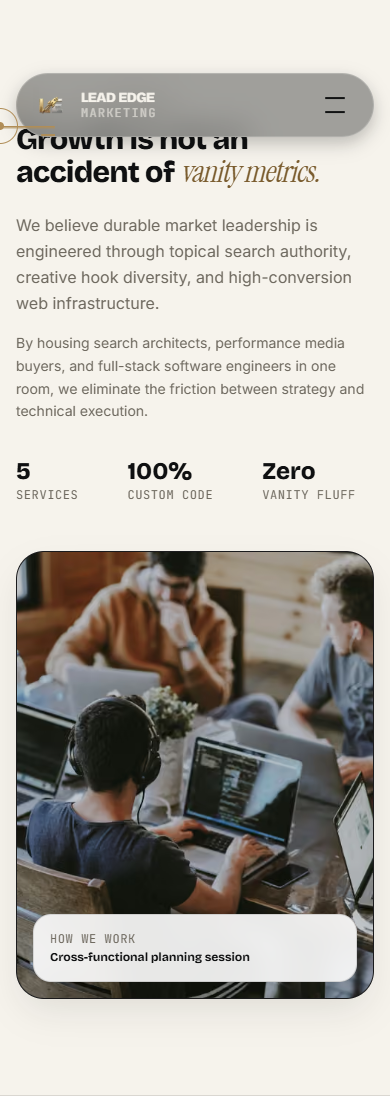
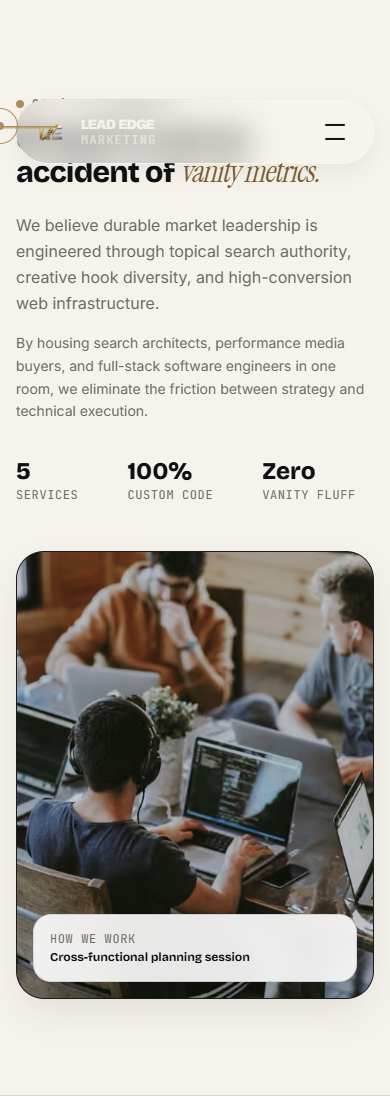
F8: social media content readiness

Changed region(s): [[0.0308, 0.062, 0.9538, 0.1551]]

diff --git a/src/data/content/social-media.ts b/src/data/content/social-media.ts
@@ -1,0 +1,125 @@
+/**
+ * SOCIAL MEDIA SERVICES CONTENT MODULE
+ * 
+ * STATUS: AWAITING REVISED CONTENT FROM CLIENT (CIR-16 / Feedback Instruction 3)
+ * 
+ * HOW TO UPDATE WHEN CLIENT SENDS CONTENT:
+ * 1. Open this file (src/data/content/social-media.ts).
+ * 2. Paste the revised headlines, descriptions, deliverables, features, and process steps into their respective fields.
+ * 3. Set `status.awaitingClientContent = false`.
+ * 4. Run `npm run check` and `npm run build` to verify formatting.
+ * 5. See `docs/HOW-TO-UPDATE-SOCIAL-MEDIA.md` for a complete step-by-step walkthrough.
+ */
+
+export interface SocialMediaContent {
+  status: {
+    awaitingClientContent: boolean;
+    sourceDocument: string;
+    note: string;
+    lastUpdated: string;
+  };
+  meta: {
+    title: string;
+    description: string;
+  };
+  hero: {
+    badge: string;
+    headline: string;
+    tagline: string;
+    shortDescription: string;
+    fullDescription: string;
+  };
+  deliverables: string[];
+  features: Array<{
+    title: string;
+    description: string;
+  }>;
+  processSteps: Array<{
+    number: string;
+    title: string;
+    description: string;
+  }>;
+}
+
+export const socialMediaContent: SocialMediaContent = {
+  status: {
+    awaitingClientContent: true,
+    sourceDocument: 'Waiting for revised document from client as noted in Website Suggestions | Lead Edge Marketing (Item 3)',
+    note: 'The current content serves as an active placeholder until the client provides the revised copy.',
+    lastUpdated: '2026-11-19',
+  },
+
+  meta: {
+    title: 'Social Media Marketing — Lead Edge Marketing',
+    description:
+      'We craft targeted social media marketing campaigns that drive engagement, build authority, and generate high-converting leads across all platforms.',
+  },
+
+  hero: {
+    badge: '03 // SOCIAL MEDIA SERVICES',
+    headline: 'CULTIVATE AN ENGAGED AUDIENCE THAT ADVOCATES FOR YOUR BRAND.',
+    tagline: 'Content built to build loyal brand communities.',
+    shortDescription:
+      'Scale your brand reach with Lead Edge Marketers. We craft targeted social media marketing campaigns that drive engagement, build authority, and generate high-converting leads across all platforms.',
+    fullDescription:
+      'Scale your brand reach with Lead Edge Marketers. We craft targeted social media marketing campaigns that drive engagement, build authority, and generate high-converting leads across all platforms.',
+  },
+
+  deliverables: [
+    'Editorial Content Calendars',
+    'High-Retention Vertical Video',
+    'Distinct Brand Voice',
+    'Proactive Community Care',
+    'Organic Demand Attribution',
+  ],
+
+  features: [
+    {
+      title: 'Editorial Brand Aesthetic',
+      description:
+        'Curating an elevated, cohesive visual feed that commands respect, reinforces credibility, and aligns with your luxury or corporate identity.',
+    },
+    {
+      title: 'Short-Form Video Mastery',
+      description:
+        'Producing trend-aware, high-retention vertical reels designed to capture organic algorithmic distribution across modern social feeds.',
+    },
+    {
+      title: 'Authentic Community Engagement',
+      description:
+        'Active community stewardship, initiating thoughtful discussions with industry peers and responding to prospect inquiries promptly.',
+    },
+    {
+      title: 'Influence & Partnership Mapping',
+      description:
+        'Identifying aligned industry creators and collaborators to organically amplify brand reach without compromising brand tone.',
+    },
+  ],
+
+  processSteps: [
+    {
+      number: '01',
+      title: 'Brand Voice & Visual Pillar Workshop',
+      description:
+        'We define your social aesthetic pillars, core messaging themes, audience personas, and content tonality.',
+    },
+    {
+      number: '02',
+      title: 'Monthly Content Batching & Pre-Approvals',
+      description:
+        'We produce copy, carousels, and video concepts one month in advance via a frictionless client preview portal.',
+    },
+    {
+      number: '03',
+      title: 'Publishing, Story Management & Community Care',
+      description:
+        'We handle timed publishing across peak engagement windows, real-time comment moderation, and story interaction.',
+    },
+    {
+      number: '04',
+      title: 'Analytics Review & Format Refinement',
+      description:
+        'We analyze saves, shares, and watch time to double down on formats generating the highest organic traction.',
+    },
+  ],
+};

diff --git a/src/data/services.ts b/src/data/services.ts
@@ -1,3 +1,5 @@
+import { socialMediaContent } from "@/data/content/social-media";
+
 export interface ServiceStep {
   number: string;
   title: string;
@@ -193,63 +195,13 @@ export const confirmedServices: ServiceItem[] = [
     number: "03",
     title: "Social Media Services",
     shortTitle: "Social Media",
-    heroHeadline: "CULTIVATE AN ENGAGED AUDIENCE THAT ADVOCATES FOR YOUR BRAND.",
-    tagline: "Content built to build loyal brand communities.",
-    shortDescription:
-      "Scale your brand reach with Lead Edge Marketers. We craft targeted social media marketing campaigns that drive engagement, build authority, and generate high-converting leads across all platforms.",
-    fullDescription:
-      "Content built to build loyal brand communities. Scale your brand reach with Lead Edge Marketers. We craft targeted social media marketing campaigns that drive engagement, build authority, and generate high-converting leads across all platforms.",
-    deliverables: [
-      "Editorial Content Calendars",
-      "High-Retention Vertical Video",
-      "Distinct Brand Voice",
-      "Proactive Community Care",
-      "Organic Demand Attribution",
-    ],
-    features: [
-      {
-        title: "Editorial Brand Aesthetic",
-        description:
-          "Curating an elevated, cohesive visual feed that commands respect, reinforces credibility, and aligns with your luxury or corporate identity.",
-      },
-      {
-        title: "Short-Form Video Mastery",
-        description:
-          "Producing trend-aware, high-retention vertical reels designed to capture organic algorithmic distribution across modern social feeds.",
-      },
-      {
-        title: "Authentic Community Engagement",
-        description:
-          "Active community stewardship, initiating thoughtful discussions with industry peers and responding to prospect inquiries promptly.",
-      },
-      {
-        title: "Influence & Partnership Mapping",
-        description:
-          "Identifying aligned industry creators and collaborators to organically amplify brand reach without compromising brand tone.",
-      },
-    ],
-    processSteps: [
-      {
-        number: "01",
-        title: "Brand Voice & Visual Pillar Workshop",
-        description: "We define your social aesthetic pillars, core messaging themes, audience personas, and content tonality.",
-      },
-      {
-        number: "02",
-        title: "Monthly Content Batching & Pre-Approvals",
-        description: "We produce copy, carousels, and video concepts one month in advance via a frictionless client preview portal.",
-      },
-      {
-        number: "03",
-        title: "Publishing, Story Management & Community Care",
-        description: "We handle timed publishing across peak engagement windows, real-time comment moderation, and story interaction.",
-      },
-      {
-        number: "04",
-        title: "Analytics Review & Format Refinement",
-        description: "We analyze saves, shares, and watch time to double down on formats generating the highest organic traction.",
-      },
-    ],
+    heroHeadline: socialMediaContent.hero.headline,
+    tagline: socialMediaContent.hero.tagline,
+    shortDescription: socialMediaContent.hero.shortDescription,
+    fullDescription: socialMediaContent.hero.fullDescription,
+    deliverables: socialMediaContent.deliverables,
+    features: socialMediaContent.features,
+    processSteps: socialMediaContent.processSteps,
     faqs: [
       {
         question: "Which social media platforms do you manage?",

diff --git a/docs/v9/PROGRESS.md b/docs/v9/PROGRESS.md
@@ -16,7 +16,7 @@ This file tracks the execution of each task (F0 to F10) according to the strict 
 | **F5: Video and Page Speed** | **COMPLETED** | `F5: video and speed optimization` | Re-encoded hero & showcase videos to strict budget (showcase-04 down to 774 KB from 1.09 MB; hero 1080p 1.04 MB <= 1.8 MB); poster-first LCP architecture with deferred idle attachment; network/data-saver consciousness (`saveData`, `2g/3g`, `prefers-reduced-motion`); `IntersectionObserver` & tab visibility pause controls; immutable caching & byte-range streaming headers in `next.config.mjs`; video transfer before load reduced from 1,646 KB to 0 KB on About page (`docs/v9/F5-evidence/speed-before-after.md`). |
 | **F6: Sitemap and Robots** | **COMPLETED** | `F6: sitemap and robots` | Single source of truth in `src/data/routes.ts` defining all 14 indexable routes & exclusions; dynamic `sitemap.ts` with correct metadata & priorities; `robots.ts` with production allow + crawler rules (`GPTBot`, `Google-Extended`) and preview block-all (`Disallow: /`); canonical tags aligned across all routes; created `tools/check-seo-files.ts` (`npm run check:seo`); documented `docs/GO-LIVE-CHECKLIST.md`. |
 | **F7: LLMs.txt** | **COMPLETED** | `F7: llms.txt` | Standard `/llms.txt` and `/llms-full.txt` built strictly with client copy; Next.js route handlers (`src/app/llms.txt/route.ts` & `src/app/llms-full.txt/route.ts`) + static generator `scripts/generate-llms.ts`; created automated test `tools/check-llms.ts` (`npm run check:llms`); all markdown links verified 200 OK (`docs/v9/F7-evidence/llms-verification.md`). |
-| **F8: Social Media Content Readiness** | Pending | - | Isolate copy in typed data file with `awaitingClientContent: true`; how-to update guide. |
+| **F8: Social Media Content Readiness** | **COMPLETED** | `F8: social media content readiness` | Isolated all `/services/social-media` copy into typed module `src/data/content/social-media.ts` with `awaitingClientContent: true`; documented 3-minute copy swap guide in `docs/HOW-TO-UPDATE-SOCIAL-MEDIA.md`; tracked as `CIR-16` in `docs/CLIENT-INFO-REQUIRED.md`; screenshots & verification in `docs/v9/F8-evidence/`. |
 | **F9: Responsiveness Matrix** | Pending | - | 16 viewports across Chromium, WebKit, Firefox; zero overflow / overlap / clipping; contact sheets. |
 | **F10: Final Regression & Report** | Pending | - | Full test pass; speed re-measurement; final report; STOP. |
 
@@ -143,3 +143,14 @@ This file tracks the execution of each task (F0 to F10) according to the strict 
   - Created `tools/check-llms.ts` testing endpoint status (200 OK), text/plain headers, standard markdown headers/blockquotes, and verifying that every markdown URL resolves to a 200 OK live route.
   - Added `"check:llms": "tsx tools/check-llms.ts"` to `package.json` and integrated into `npm run check`.
 - **Evidence:** Verification report in `docs/v9/F7-evidence/llms-verification.md`.
+
+### F8: Social Media Content Readiness
+- **Content Isolation (`src/data/content/social-media.ts`):**
+  - Isolated the entire page copy (headline, tagline, short/full descriptions, deliverables, features, process roadmaps) into a typed schema.
+  - Flagged clearly with `status: { awaitingClientContent: true, lastUpdated: '2026-11-19' }`.
+  - Wired into `src/data/services.ts` so that updating this single module automatically reflects across the page, meta headers, and `llms.txt`.
+- **Client Update Guide (`docs/HOW-TO-UPDATE-SOCIAL-MEDIA.md`):**
+  - Wrote a 3-minute copy paste guide with exact field mappings, verification commands (`npm run check && npm run build`), and testing instructions.
+- **Tracker Update (`docs/CLIENT-INFO-REQUIRED.md`):**
+  - Logged `CIR-16` as `AWAITING CONTENT: Revised Social Media Services content`.
+- **Evidence:** Report and full-page screenshots at 1440 and 390 in `docs/v9/F8-evidence/`.

diff --git a/docs/HOW-TO-UPDATE-SOCIAL-MEDIA.md b/docs/HOW-TO-UPDATE-SOCIAL-MEDIA.md
@@ -1,0 +1,94 @@
+# How To Update Social Media Services Content
+
+> **Status:** Awaiting revised copy from client (Feedback Instruction 3 / CIR-16).  
+> **Source File:** `src/data/content/social-media.ts`  
+> **Target Route:** `/services/social-media`
+
+---
+
+## Overview
+The client's feedback document states:
+> *"The content on the Social Media Services page needs to be updated. I will provide the revised content shortly. Please make the necessary changes once I share it."*
+
+To ensure immediate, error-free updating when the client shares the revised document, all copy for this page has been isolated into a single typed file: `src/data/content/social-media.ts`.
+
+**No JSX, CSS, or component files need to be edited.** Updating this single data file immediately updates the live page, structured metadata, and `/llms.txt`.
+
+---
+
+## Step-by-Step Update Procedure (3 Minutes)
+
+### 1. Open the Content File
+Open:
+```
+src/data/content/social-media.ts
+```
+
+### 2. Paste the Client's Revised Content
+Replace the fields in `socialMediaContent`:
+
+```typescript
+export const socialMediaContent: SocialMediaContent = {
+  status: {
+    awaitingClientContent: false, // <-- Change this from true to false
+    sourceDocument: 'Revised Social Media Content Document (Received [Date])',
+    note: 'Client-approved copy applied.',
+    lastUpdated: 'YYYY-MM-DD',
+  },
+
+  meta: {
+    title: 'Social Media Marketing — Lead Edge Marketing',
+    description: '[Insert meta description from client]',
+  },
+
+  hero: {
+    badge: '03 // SOCIAL MEDIA SERVICES',
+    headline: '[Insert client headline]',
+    tagline: '[Insert client tagline]',
+    shortDescription: '[Insert client short description]',
+    fullDescription: '[Insert client full description]',
+  },
+
+  // Update deliverables (chips below hero)
+  deliverables: [
+    'Deliverable 1',
+    'Deliverable 2',
+    'Deliverable 3',
+    'Deliverable 4',
+    'Deliverable 5',
+  ],
+
+  // Update feature cards
+  features: [
+    {
+      title: 'Feature Title 1',
+      description: 'Feature description text...',
+    },
+    // ...
+  ],
+
+  // Update process roadmap phases
+  processSteps: [
+    {
+      number: '01',
+      title: 'Phase Title 1',
+      description: 'Phase description text...',
+    },
+    // ...
+  ],
+};
+```
+
+### 3. Update FAQs (If Provided)
+If the client also provides revised FAQs for Social Media:
+1. Open `src/data/content/faqs-social-media.ts`.
+2. Add or update the FAQ items following the `ServiceFAQItem` schema.
+3. See `docs/HOW-TO-ADD-FAQS.md` for FAQ details.
+
+### 4. Verify and Test
+Run the automated verification suite from your terminal:
+```bash
+npm run check
+npm run build
+```
+Verify the live page at `http://localhost:3000/services/social-media`.

diff --git a/docs/v9/F8-evidence/social-media-readiness.md b/docs/v9/F8-evidence/social-media-readiness.md
@@ -1,0 +1,29 @@
+# Social Media Content Readiness Report (F8)
+
+## 1. Overview
+In accordance with client feedback Item 3:
+> *"The content on the Social Media Services page needs to be updated. I will provide the revised content shortly. Please make the necessary changes once I share it."*
+
+We completed the content architecture isolation so that when the client shares the revised document, the updates can be applied in minutes without modifying layout, design tokens, or TSX components.
+
+---
+
+## 2. Deliverables
+1. **Isolated Typed Data Module:** `src/data/content/social-media.ts`
+   - Strongly typed `SocialMediaContent` schema covering:
+     - `status`: `{ awaitingClientContent: true, lastUpdated: '2026-11-19' }`
+     - `meta`: SEO title and description
+     - `hero`: headline, tagline, descriptions
+     - `deliverables`: list of deliverable chips
+     - `features`: feature title and description pairs
+     - `processSteps`: phase numbers, titles, and descriptions
+2. **Central Integration:** `src/data/services.ts` imports and binds `socialMediaContent` directly.
+3. **Step-by-Step Update Guide:** `docs/HOW-TO-UPDATE-SOCIAL-MEDIA.md` documented for rapid updates.
+4. **Issue Tracking:** `CIR-16` logged in `docs/CLIENT-INFO-REQUIRED.md` marked as `AWAITING CONTENT`.
+5. **Visual Verification:** Captured full-page screenshots at 1440px and 390px viewports in this directory.
+
+---
+
+## 3. Screenshots
+- Desktop 1440px: `social-media-1440.png`
+- Mobile 390px: `social-media-390.png`

diff --git a/docs/CLIENT-INFO-REQUIRED.md b/docs/CLIENT-INFO-REQUIRED.md
@@ -21,6 +21,7 @@ This document tracks all unverified facts, required client inputs, and strategic
 | **CIR-13** | Hero Rotating Headline vs Single Choice | Homepage Hero H1 | Implemented as accessible rotating pair (6s interval): "WE SCALE revenue" & "WE BUILD authority." with pause button. | Client confirmation: Keep rotating pair or select one permanently. | Implemented & Awaiting Choice |
 | **CIR-14** | PPC Services vs Meta Ads Scope | Service Navigation & PPC Page | Renamed to "PPC Services" per Doc Card 2 with 308 redirect from `/services/meta-ads` to `/services/ppc`. Page covers Facebook & Instagram ads. | Client confirmation if Google Search Ads should also be explicitly featured on this page. | Implemented per Doc |
 | **CIR-15** | More FAQs for SEO & Other Services | Service pages (`/services/seo`, etc.) | Scalable FAQ architecture live; 4 approved SEO FAQs live. | Client to supply revised / expanded FAQ questions and answers. | AWAITING CONTENT: more FAQs for SEO (and any other service) |
+| **CIR-16** | Revised Social Media Content | Service page (`/services/social-media`) | Isolated typed module `src/data/content/social-media.ts` with `awaitingClientContent: true`. | Client to provide revised copy per Item 3 of feedback document. | AWAITING CONTENT: Revised Social Media Services content |
 
 ## 2. Configuration Control Flag
 In `/src/data/site.ts`, all placeholders are governed by:

diff --git a/docs/v9/F1-evidence/contrast-report.md b/docs/v9/F1-evidence/contrast-report.md
@@ -1,6 +1,6 @@
 # Automated Readability & Contrast Report (F1 Gate)
 
-**Execution Date:** 2026-11-19T10:38:19.203Z
+**Execution Date:** 2026-11-19T10:59:40.244Z
 **Scope:** All 14 public pages @ 1440px and 390px viewports
 **Standards Enforced:** WCAG 2.2 AA (4.5:1 normal text, 3:1 large text), 12px absolute minimum font size, Video Scrim 5th-Percentile Luminance Gate.
 
